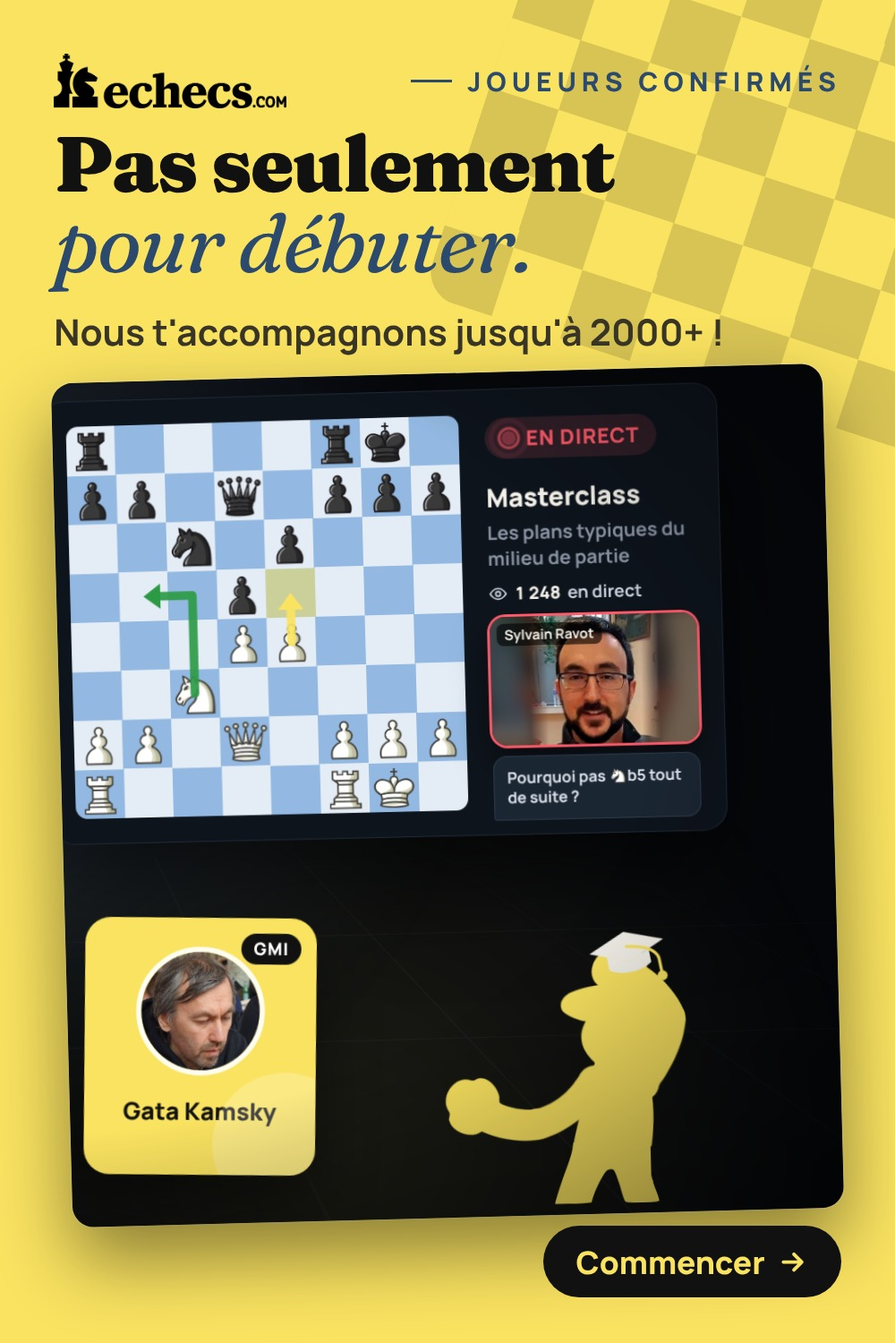
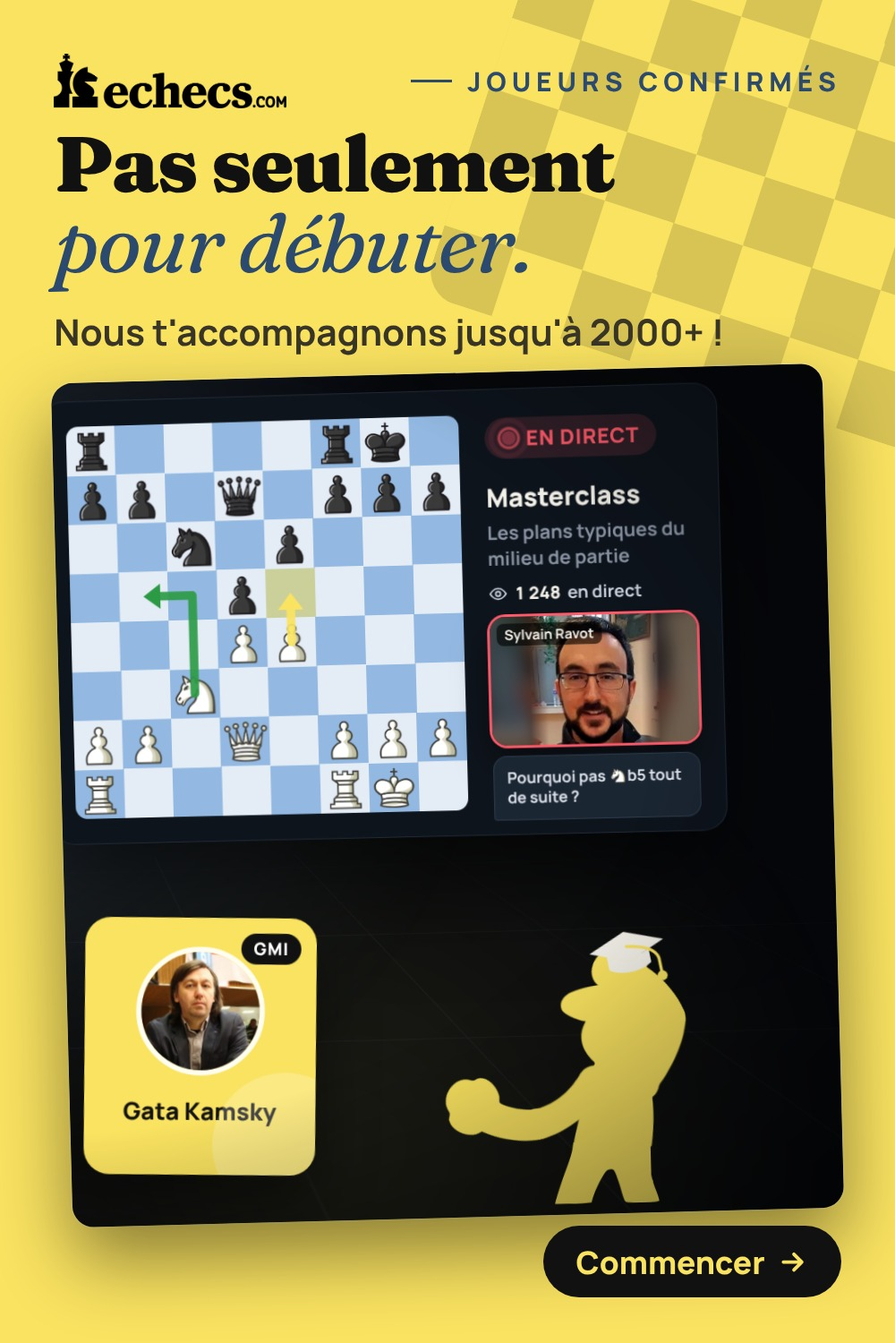
Page de campagne 2000 : vidéos 1, 2, 3 et 5 refaites (exercices Objectif 1800), post 91 avec la nouvelle photo
Claude-Session: https://claude.ai/code/session_01BbhUUMNCTREacxpKGo9DaP

Changed region(s): [[0.155, 0.7053, 0.31, 0.7973]]

diff --git a/video/validation/campagne-2000.html b/video/validation/campagne-2000.html
@@ -462,7 +462,7 @@ function fit(scope) {
 }
 
 /* ---------- Fiches ---------- */
-const MEDIA = [{"id": "p90", "v": 1, "kind": "media", "aud": "p", "nom": "2000 et plus : on t’y emmène", "angle": "Le chiffre de la campagne, avec la mascotte et son drapeau.", "legende": "2000 et plus : on t'y emmène. ♟ L'Académie, ce n'est pas que pour apprendre les règles : les parcours Objectif 1600, 1800 et 2000 et plus sont faits pour les joueurs de club. 👉 echecs.com/academie", "medias": [{"label": "Carré 1080×1080", "src": "campagne-2000/media/90-jusqu-a-2000-carre-1080x1080.jpg", "type": "image"}, {"label": "Portrait 4:5", "src": "campagne-2000/media/90-jusqu-a-2000-portrait-1080x1350.jpg", "type": "image"}, {"label": "Story 9:16", "src": "campagne-2000/media/90-jusqu-a-2000-story-1080x1920.jpg", "type": "image"}, {"label": "X 1600×900", "src": "campagne-2000/media/90-jusqu-a-2000-x-1600x900.jpg", "type": "image"}, {"label": "Lien partagé 1200×630", "src": "campagne-2000/media/90-jusqu-a-2000-lien-1200x630.jpg", "type": "image"}, {"label": "Pinterest 1000×1500", "src": "campagne-2000/media/90-jusqu-a-2000-pinterest-1000x1500.jpg", "type": "image"}]}, {"id": "p91", "v": 3, "kind": "media", "aud": "p", "nom": "Pas seulement pour débuter", "angle": "Casser l’idée d’une Académie pour débutants, avec une masterclass en image.", "legende": "Tu crois que l'Académie, c'est pour les débutants ? 🤔 Ouvertures, plans de milieu de jeu, finales techniques, masterclasses de Grands Maîtres : nous t'accompagnons jusqu'à 2000+ !", "medias": [{"label": "Carré 1080×1080", "src": "campagne-2000/media/91-pas-que-pour-debuter-carre-1080x1080.jpg", "type": "image"}, {"label": "Portrait 4:5", "src": "campagne-2000/media/91-pas-que-pour-debuter-portrait-1080x1350.jpg", "type": "image"}, {"label": "Story 9:16", "src": "campagne-2000/media/91-pas-que-pour-debuter-story-1080x1920.jpg", "type": "image"}, {"label": "X 1600×900", "src": "campagne-2000/media/91-pas-que-pour-debuter-x-1600x900.jpg", "type": "image"}, {"label": "Lien partagé 1200×630", "src": "campagne-2000/media/91-pas-que-pour-debuter-lien-1200x630.jpg", "type": "image"}, {"label": "Pinterest 1000×1500", "src": "campagne-2000/media/91-pas-que-pour-debuter-pinterest-1000x1500.jpg", "type": "image"}]}, {"id": "p92", "v": 3, "kind": "media", "aud": "p", "nom": "Tu joues en club ? Rejoins l’Académie !", "angle": "Parler directement aux joueurs de club, avec les exercices de niveau 1600.", "legende": "Tu joues en club ? Rejoins l'Académie ! 🏆 Ton club en ligne ouvert 24 h sur 24 : des exercices classés jusqu'au niveau 2000 et plus, et un tournoi en ligne chaque semaine pour mettre tout ça en pratique.", "medias": [{"label": "Carré 1080×1080", "src": "campagne-2000/media/92-joueur-de-club-carre-1080x1080.jpg", "type": "image"}, {"label": "Portrait 4:5", "src": "campagne-2000/media/92-joueur-de-club-portrait-1080x1350.jpg", "type": "image"}, {"label": "Story 9:16", "src": "campagne-2000/media/92-joueur-de-club-story-1080x1920.jpg", "type": "image"}, {"label": "X 1600×900", "src": "campagne-2000/media/92-joueur-de-club-x-1600x900.jpg", "type": "image"}, {"label": "Lien partagé 1200×630", "src": "campagne-2000/media/92-joueur-de-club-lien-1200x630.jpg", "type": "image"}, {"label": "Pinterest 1000×1500", "src": "campagne-2000/media/92-joueur-de-club-pinterest-1000x1500.jpg", "type": "image"}]}, {"id": "p93", "v": 2, "kind": "media", "aud": "p", "nom": "Fais sauter le cap des 2000", "angle": "La mascotte qui célèbre le cap.", "legende": "Fais sauter le cap des 2000. 📈 Chaque module validé te rapproche du suivant, et ta courbe Elo le montre.", "medias": [{"label": "Carré 1080×1080", "src": "campagne-2000/media/93-cap-des-2000-carre-1080x1080.jpg", "type": "image"}, {"label": "Portrait 4:5", "src": "campagne-2000/media/93-cap-des-2000-portrait-1080x1350.jpg", "type": "image"}, {"label": "Story 9:16", "src": "campagne-2000/media/93-cap-des-2000-story-1080x1920.jpg", "type": "image"}, {"label": "X 1600×900", "src": "campagne-2000/media/93-cap-des-2000-x-1600x900.jpg", "type": "image"}, {"label": "Lien partagé 1200×630", "src": "campagne-2000/media/93-cap-des-2000-lien-1200x630.jpg", "type": "image"}, {"label": "Pinterest 1000×1500", "src": "campagne-2000/media/93-cap-des-2000-pinterest-1000x1500.jpg", "type": "image"}]}, {"id": "p94", "v": 3, "kind": "media", "aud": "p", "nom": "Problème : les Blancs jouent et gagnent", "angle": "Un problème de niveau Objectif 1600 (le sacrifice grec), pour faire réagir en commentaire.", "legende": "Objectif 1600 : les Blancs jouent et gagnent. Tu vois le coup ? Donne ta réponse en commentaire 👇", "medias": [{"label": "Carré 1080×1080", "src": "campagne-2000/media/94-probleme-fou-h7-carre-1080x1080.jpg", "type": "image"}, {"label": "Portrait 4:5", "src": "campagne-2000/media/94-probleme-fou-h7-portrait-1080x1350.jpg", "type": "image"}, {"label": "Story 9:16", "src": "campagne-2000/media/94-probleme-fou-h7-story-1080x1920.jpg", "type": "image"}, {"label": "X 1600×900", "src": "campagne-2000/media/94-probleme-fou-h7-x-1600x900.jpg", "type": "image"}, {"label": "Lien partagé 1200×630", "src": "campagne-2000/media/94-probleme-fou-h7-lien-1200x630.jpg", "type": "image"}, {"label": "Pinterest 1000×1500", "src": "campagne-2000/media/94-probleme-fou-h7-pinterest-1000x1500.jpg", "type": "image"}]}, {"id": "p95", "v": 1, "kind": "media", "aud": "p", "nom": "La solution : le sacrifice grec", "angle": "À publier le lendemain, en post ou en story.", "legende": "Solution : 1.Fxh7+ ! Rxh7 2.Cg5+ et la Dame arrive en h5. C'est le sacrifice grec, un grand classique des attaques sur le Roque. On le travaille dans l'Académie, avec beaucoup d'autres.", "medias": [{"label": "Carré 1080×1080", "src": "campagne-2000/media/95-solution-fou-h7-carre-1080x1080.jpg", "type": "image"}, {"label": "Portrait 4:5", "src": "campagne-2000/media/95-solution-fou-h7-portrait-1080x1350.jpg", "type": "image"}, {"label": "Story 9:16", "src": "campagne-2000/media/95-solution-fou-h7-story-1080x1920.jpg", "type": "image"}, {"label": "X 1600×900", "src": "campagne-2000/media/95-solution-fou-h7-x-1600x900.jpg", "type": "image"}, {"label": "Lien partagé 1200×630", "src": "campagne-2000/media/95-solution-fou-h7-lien-1200x630.jpg", "type": "image"}, {"label": "Pinterest 1000×1500", "src": "campagne-2000/media/95-solution-fou-h7-pinterest-1000x1500.jpg", "type": "image"}]}, {"id": "p96", "v": 3, "kind": "media", "aud": "p", "nom": "1700 depuis des mois ?", "angle": "Le post qui pique : il parle directement au joueur de club bloqué à son classement.", "legende": "1700 depuis des mois ? 😤 Leçons Objectif 1800, masterclasses de Grands Maîtres, exercices : on débloque ça ensemble. 👉 echecs.com/academie", "medias": [{"label": "Carré 1080×1080", "src": "campagne-2000/media/96-plafond-1700-carre-1080x1080.jpg", "type": "image"}, {"label": "Portrait 4:5", "src": "campagne-2000/media/96-plafond-1700-portrait-1080x1350.jpg", "type": "image"}, {"label": "Story 9:16", "src": "campagne-2000/media/96-plafond-1700-story-1080x1920.jpg", "type": "image"}, {"label": "X 1600×900", "src": "campagne-2000/media/96-plafond-1700-x-1600x900.jpg", "type": "image"}, {"label": "Lien partagé 1200×630", "src": "campagne-2000/media/96-plafond-1700-lien-1200x630.jpg", "type": "image"}, {"label": "Pinterest 1000×1500", "src": "campagne-2000/media/96-plafond-1700-pinterest-1000x1500.jpg", "type": "image"}]}, {"id": "p97", "v": 3, "kind": "media", "aud": "p", "nom": "Des leçons pour les joueurs de club", "angle": "Les vraies leçons Objectif 1800 de l’Académie, pour montrer le niveau concret.", "legende": "Triangulation, défense de Vancura, initiative… L'Académie, ce sont aussi des leçons pour les joueurs de club, niveau 1800, avec vidéos, exercices et quiz. 👉 echecs.com/academie", "medias": [{"label": "Carré 1080×1080", "src": "campagne-2000/media/97-lecons-1800-carre-1080x1080.jpg", "type": "image"}, {"label": "Portrait 4:5", "src": "campagne-2000/media/97-lecons-1800-portrait-1080x1350.jpg", "type": "image"}, {"label": "Story 9:16", "src": "campagne-2000/media/97-lecons-1800-story-1080x1920.jpg", "type": "image"}, {"label": "X 1600×900", "src": "campagne-2000/media/97-lecons-1800-x-1600x900.jpg", "type": "image"}, {"label": "Lien partagé 1200×630", "src": "campagne-2000/media/97-lecons-1800-lien-1200x630.jpg", "type": "image"}, {"label": "Pinterest 1000×1500", "src": "campagne-2000/media/97-lecons-1800-pinterest-1000x1500.jpg", "type": "image"}]}, {"id": "vid1", "v": 6, "kind": "media", "aud": "vid", "nom": "Tu plafonnes à 1700 ?", "angle": "33 s, sans voix ; en story, 4:5 et carré, le cadre reprend l’accroche en gros (« Bloqué à 1700 ? Vise les 2000 + »), pour les joueurs de 1600-1800 : « Tu plafonnes à 1700 depuis des mois ? » sur un Elo qui ne bouge plus, « Nous avons pensé à toi ! On t’emmène jusqu’à 2000 et plus. », le sacrifice du Fou en h7, six vraies leçons Objectif 1600 et 1800 cochées une à une (triangulation, Vancura, initiative…), les Grands Maîtres, le module Objectif 1800 validé et la courbe Elo qui passe la barre des 2000.", "legende": "Tu plafonnes à 1700 depuis des mois ? Triangulation, défense de Vancura, initiative, masterclasses de Grands Maîtres : on t'emmène jusqu'à 2000 et plus. 👉 echecs.com/academie", "medias": [{"label": "16:9 (YouTube, LinkedIn, X, site)", "src": "campagne-2000/media/jusqu-a-2000-16x9.mp4", "type": "video"}, {"label": "Story 9:16", "src": "campagne-2000/media/jusqu-a-2000-story-9x16.mp4", "type": "video"}, {"label": "Portrait 4:5", "src": "campagne-2000/media/jusqu-a-2000-feed-4x5.mp4", "type": "video"}, {"label": "Carré 1:1", "src": "campagne-2000/media/jusqu-a-2000-carre-1x1.mp4", "type": "video"}]}, {"id": "vid2", "v": 1, "kind": "media", "aud": "vid", "nom": "Ton prochain palier : l’Objectif 1800", "angle": "27 s, sans voix ; cadre « Cap sur l’Objectif 1800. » en story, 4:5 et carré. « Ton prochain palier : l’Objectif 1800 ? » sur un Elo qui monte vers 1800, « Nous avons la solution ! Les leçons Objectif 1800 t’attendent. », six vraies leçons Objectif 1600 et 1800 cochées une à une, le module Objectif 1800 validé et la courbe Elo, puis les exercices et quiz.", "legende": "Ton prochain palier : l'Objectif 1800 ? Triangulation, défense de Vancura, initiative… Des leçons pour les joueurs de club, avec vidéos, exercices et quiz. 👉 echecs.com/academie", "medias": [{"label": "16:9 (YouTube, LinkedIn, X, site)", "src": "campagne-2000/media/lecons-1800-16x9.mp4", "type": "video"}, {"label": "Story 9:16", "src": "campagne-2000/media/lecons-1800-story-9x16.mp4", "type": "video"}, {"label": "Portrait 4:5", "src": "campagne-2000/media/lecons-1800-feed-4x5.mp4", "type": "video"}, {"label": "Carré 1:1", "src": "campagne-2000/media/lecons-1800-carre-1x1.mp4", "type": "video"}]}, {"id": "vid3", "v": 1, "kind": "media", "aud": "vid", "nom": "Passe le cap des 2000", "angle": "28 s, sans voix ; cadre « Passe le cap des 2000 ! » en story, 4:5 et carré. « Et si tu passais le cap des 2000 ? » sur un Elo qui approche des 2000, « Nous avons pensé à toi ! On t’emmène jusqu’à 2000 et plus. », la courbe Elo qui passe la barre des 2000, le parcours de l’Objectif 1600 à 2000 et plus (avec le sacrifice du Fou en h7), puis les exercices et quiz.", "legende": "Et si tu passais le cap des 2000 ? Leçons Objectif 1800, exercices à ton niveau et ta courbe Elo pour mesurer tes progrès : on t'emmène jusqu'à 2000 et plus. 👉 echecs.com/academie", "medias": [{"label": "16:9 (YouTube, LinkedIn, X, site)", "src": "campagne-2000/media/cap-des-2000-16x9.mp4", "type": "video"}, {"label": "Story 9:16", "src": "campagne-2000/media/cap-des-2000-story-9x16.mp4", "type": "video"}, {"label": "Portrait 4:5", "src": "campagne-2000/media/cap-des-2000-feed-4x5.mp4", "type": "video"}, {"label": "Carré 1:1", "src": "campagne-2000/media/cap-des-2000-carre-1x1.mp4", "type": "video"}]}, {"id": "vid4", "v": 1, "kind": "media", "aud": "vid", "nom": "Des Grands Maîtres à tes côtés", "angle": "23 s, sans voix ; cadre « Avec des Grands Maîtres. » en story, 4:5 et carré. « Et si des Grands Maîtres t’aidaient à progresser ? » avec Gata Kamsky et Fabien Libiszewski en direct, « Nous avons la solution ! Des Maîtres et Grands Maîtres à tes côtés. », une masterclass en direct et nos coachs, puis le catalogue vidéo Europe Échecs et ses auteurs.", "legende": "Et si des Grands Maîtres t'aidaient à progresser ? Gata Kamsky, Fabien Libiszewski et nos coachs en masterclass, en direct et en replay, et tout le catalogue vidéo Europe Échecs inclus. 👉 echecs.com/academie", "medias": [{"label": "16:9 (YouTube, LinkedIn, X, site)", "src": "campagne-2000/media/grands-maitres-16x9.mp4", "type": "video"}, {"label": "Story 9:16", "src": "campagne-2000/media/grands-maitres-story-9x16.mp4", "type": "video"}, {"label": "Portrait 4:5", "src": "campagne-2000/media/grands-maitres-feed-4x5.mp4", "type": "video"}, {"label": "Carré 1:1", "src": "campagne-2000/media/grands-maitres-carre-1x1.mp4", "type": "video"}]}, {"id": "vid5", "v": 1, "kind": "media", "aud": "vid", "nom": "Ton dernier tournoi, décortiqué", "angle": "23 s, sans voix ; cadre « Ton tournoi, décortiqué. » en story, 4:5 et carré. « Tu perds en tournoi sans savoir pourquoi ? » sur une série de défaites, « Nous avons pensé à toi ! Ton dernier tournoi, décortiqué coup par coup. », la saisie d’une partie, l’import du PGN, l’analyse et le partage avec les membres, puis les exercices et quiz.", "legende": "Tu perds en tournoi sans savoir pourquoi ? Importe tes parties en PGN, analyse-les coup par coup et partage-les avec les membres. Puis entraîne-toi avec +2 000 exercices. 👉 echecs.com/academie", "medias": [{"label": "16:9 (YouTube, LinkedIn, X, site)", "src": "campagne-2000/media/tournoi-decortique-16x9.mp4", "type": "video"}, {"label": "Story 9:16", "src": "campagne-2000/media/tournoi-decortique-story-9x16.mp4", "type": "video"}, {"label": "Portrait 4:5", "src": "campagne-2000/media/tournoi-decortique-feed-4x5.mp4", "type": "video"}, {"label": "Carré 1:1", "src": "campagne-2000/media/tournoi-decortique-carre-1x1.mp4", "type": "video"}]}];
+const MEDIA = [{"id": "p90", "v": 1, "kind": "media", "aud": "p", "nom": "2000 et plus : on t’y emmène", "angle": "Le chiffre de la campagne, avec la mascotte et son drapeau.", "legende": "2000 et plus : on t'y emmène. ♟ L'Académie, ce n'est pas que pour apprendre les règles : les parcours Objectif 1600, 1800 et 2000 et plus sont faits pour les joueurs de club. 👉 echecs.com/academie", "medias": [{"label": "Carré 1080×1080", "src": "campagne-2000/media/90-jusqu-a-2000-carre-1080x1080.jpg", "type": "image"}, {"label": "Portrait 4:5", "src": "campagne-2000/media/90-jusqu-a-2000-portrait-1080x1350.jpg", "type": "image"}, {"label": "Story 9:16", "src": "campagne-2000/media/90-jusqu-a-2000-story-1080x1920.jpg", "type": "image"}, {"label": "X 1600×900", "src": "campagne-2000/media/90-jusqu-a-2000-x-1600x900.jpg", "type": "image"}, {"label": "Lien partagé 1200×630", "src": "campagne-2000/media/90-jusqu-a-2000-lien-1200x630.jpg", "type": "image"}, {"label": "Pinterest 1000×1500", "src": "campagne-2000/media/90-jusqu-a-2000-pinterest-1000x1500.jpg", "type": "image"}]}, {"id": "p91", "v": 3, "kind": "media", "aud": "p", "nom": "Pas seulement pour débuter", "angle": "Casser l’idée d’une Académie pour débutants, avec une masterclass en image.", "legende": "Tu crois que l'Académie, c'est pour les débutants ? 🤔 Ouvertures, plans de milieu de jeu, finales techniques, masterclasses de Grands Maîtres : nous t'accompagnons jusqu'à 2000+ !", "medias": [{"label": "Carré 1080×1080", "src": "campagne-2000/media/91-pas-que-pour-debuter-carre-1080x1080.jpg", "type": "image"}, {"label": "Portrait 4:5", "src": "campagne-2000/media/91-pas-que-pour-debuter-portrait-1080x1350.jpg", "type": "image"}, {"label": "Story 9:16", "src": "campagne-2000/media/91-pas-que-pour-debuter-story-1080x1920.jpg", "type": "image"}, {"label": "X 1600×900", "src": "campagne-2000/media/91-pas-que-pour-debuter-x-1600x900.jpg", "type": "image"}, {"label": "Lien partagé 1200×630", "src": "campagne-2000/media/91-pas-que-pour-debuter-lien-1200x630.jpg", "type": "image"}, {"label": "Pinterest 1000×1500", "src": "campagne-2000/media/91-pas-que-pour-debuter-pinterest-1000x1500.jpg", "type": "image"}]}, {"id": "p92", "v": 3, "kind": "media", "aud": "p", "nom": "Tu joues en club ? Rejoins l’Académie !", "angle": "Parler directement aux joueurs de club, avec les exercices de niveau 1600.", "legende": "Tu joues en club ? Rejoins l'Académie ! 🏆 Ton club en ligne ouvert 24 h sur 24 : des exercices classés jusqu'au niveau 2000 et plus, et un tournoi en ligne chaque semaine pour mettre tout ça en pratique.", "medias": [{"label": "Carré 1080×1080", "src": "campagne-2000/media/92-joueur-de-club-carre-1080x1080.jpg", "type": "image"}, {"label": "Portrait 4:5", "src": "campagne-2000/media/92-joueur-de-club-portrait-1080x1350.jpg", "type": "image"}, {"label": "Story 9:16", "src": "campagne-2000/media/92-joueur-de-club-story-1080x1920.jpg", "type": "image"}, {"label": "X 1600×900", "src": "campagne-2000/media/92-joueur-de-club-x-1600x900.jpg", "type": "image"}, {"label": "Lien partagé 1200×630", "src": "campagne-2000/media/92-joueur-de-club-lien-1200x630.jpg", "type": "image"}, {"label": "Pinterest 1000×1500", "src": "campagne-2000/media/92-joueur-de-club-pinterest-1000x1500.jpg", "type": "image"}]}, {"id": "p93", "v": 2, "kind": "media", "aud": "p", "nom": "Fais sauter le cap des 2000", "angle": "La mascotte qui célèbre le cap.", "legende": "Fais sauter le cap des 2000. 📈 Chaque module validé te rapproche du suivant, et ta courbe Elo le montre.", "medias": [{"label": "Carré 1080×1080", "src": "campagne-2000/media/93-cap-des-2000-carre-1080x1080.jpg", "type": "image"}, {"label": "Portrait 4:5", "src": "campagne-2000/media/93-cap-des-2000-portrait-1080x1350.jpg", "type": "image"}, {"label": "Story 9:16", "src": "campagne-2000/media/93-cap-des-2000-story-1080x1920.jpg", "type": "image"}, {"label": "X 1600×900", "src": "campagne-2000/media/93-cap-des-2000-x-1600x900.jpg", "type": "image"}, {"label": "Lien partagé 1200×630", "src": "campagne-2000/media/93-cap-des-2000-lien-1200x630.jpg", "type": "image"}, {"label": "Pinterest 1000×1500", "src": "campagne-2000/media/93-cap-des-2000-pinterest-1000x1500.jpg", "type": "image"}]}, {"id": "p94", "v": 3, "kind": "media", "aud": "p", "nom": "Problème : les Blancs jouent et gagnent", "angle": "Un problème de niveau Objectif 1600 (le sacrifice grec), pour faire réagir en commentaire.", "legende": "Objectif 1600 : les Blancs jouent et gagnent. Tu vois le coup ? Donne ta réponse en commentaire 👇", "medias": [{"label": "Carré 1080×1080", "src": "campagne-2000/media/94-probleme-fou-h7-carre-1080x1080.jpg", "type": "image"}, {"label": "Portrait 4:5", "src": "campagne-2000/media/94-probleme-fou-h7-portrait-1080x1350.jpg", "type": "image"}, {"label": "Story 9:16", "src": "campagne-2000/media/94-probleme-fou-h7-story-1080x1920.jpg", "type": "image"}, {"label": "X 1600×900", "src": "campagne-2000/media/94-probleme-fou-h7-x-1600x900.jpg", "type": "image"}, {"label": "Lien partagé 1200×630", "src": "campagne-2000/media/94-probleme-fou-h7-lien-1200x630.jpg", "type": "image"}, {"label": "Pinterest 1000×1500", "src": "campagne-2000/media/94-probleme-fou-h7-pinterest-1000x1500.jpg", "type": "image"}]}, {"id": "p95", "v": 1, "kind": "media", "aud": "p", "nom": "La solution : le sacrifice grec", "angle": "À publier le lendemain, en post ou en story.", "legende": "Solution : 1.Fxh7+ ! Rxh7 2.Cg5+ et la Dame arrive en h5. C'est le sacrifice grec, un grand classique des attaques sur le Roque. On le travaille dans l'Académie, avec beaucoup d'autres.", "medias": [{"label": "Carré 1080×1080", "src": "campagne-2000/media/95-solution-fou-h7-carre-1080x1080.jpg", "type": "image"}, {"label": "Portrait 4:5", "src": "campagne-2000/media/95-solution-fou-h7-portrait-1080x1350.jpg", "type": "image"}, {"label": "Story 9:16", "src": "campagne-2000/media/95-solution-fou-h7-story-1080x1920.jpg", "type": "image"}, {"label": "X 1600×900", "src": "campagne-2000/media/95-solution-fou-h7-x-1600x900.jpg", "type": "image"}, {"label": "Lien partagé 1200×630", "src": "campagne-2000/media/95-solution-fou-h7-lien-1200x630.jpg", "type": "image"}, {"label": "Pinterest 1000×1500", "src": "campagne-2000/media/95-solution-fou-h7-pinterest-1000x1500.jpg", "type": "image"}]}, {"id": "p96", "v": 3, "kind": "media", "aud": "p", "nom": "1700 depuis des mois ?", "angle": "Le post qui pique : il parle directement au joueur de club bloqué à son classement.", "legende": "1700 depuis des mois ? 😤 Leçons Objectif 1800, masterclasses de Grands Maîtres, exercices : on débloque ça ensemble. 👉 echecs.com/academie", "medias": [{"label": "Carré 1080×1080", "src": "campagne-2000/media/96-plafond-1700-carre-1080x1080.jpg", "type": "image"}, {"label": "Portrait 4:5", "src": "campagne-2000/media/96-plafond-1700-portrait-1080x1350.jpg", "type": "image"}, {"label": "Story 9:16", "src": "campagne-2000/media/96-plafond-1700-story-1080x1920.jpg", "type": "image"}, {"label": "X 1600×900", "src": "campagne-2000/media/96-plafond-1700-x-1600x900.jpg", "type": "image"}, {"label": "Lien partagé 1200×630", "src": "campagne-2000/media/96-plafond-1700-lien-1200x630.jpg", "type": "image"}, {"label": "Pinterest 1000×1500", "src": "campagne-2000/media/96-plafond-1700-pinterest-1000x1500.jpg", "type": "image"}]}, {"id": "p97", "v": 3, "kind": "media", "aud": "p", "nom": "Des leçons pour les joueurs de club", "angle": "Les vraies leçons Objectif 1800 de l’Académie, pour montrer le niveau concret.", "legende": "Triangulation, défense de Vancura, initiative… L'Académie, ce sont aussi des leçons pour les joueurs de club, niveau 1800, avec vidéos, exercices et quiz. 👉 echecs.com/academie", "medias": [{"label": "Carré 1080×1080", "src": "campagne-2000/media/97-lecons-1800-carre-1080x1080.jpg", "type": "image"}, {"label": "Portrait 4:5", "src": "campagne-2000/media/97-lecons-1800-portrait-1080x1350.jpg", "type": "image"}, {"label": "Story 9:16", "src": "campagne-2000/media/97-lecons-1800-story-1080x1920.jpg", "type": "image"}, {"label": "X 1600×900", "src": "campagne-2000/media/97-lecons-1800-x-1600x900.jpg", "type": "image"}, {"label": "Lien partagé 1200×630", "src": "campagne-2000/media/97-lecons-1800-lien-1200x630.jpg", "type": "image"}, {"label": "Pinterest 1000×1500", "src": "campagne-2000/media/97-lecons-1800-pinterest-1000x1500.jpg", "type": "image"}]}, {"id": "vid1", "v": 7, "kind": "media", "aud": "vid", "nom": "Tu plafonnes à 1700 ?", "angle": "33 s, sans voix ; en story, 4:5 et carré, le cadre reprend l’accroche en gros (« Bloqué à 1700 ? Vise les 2000 + »), pour les joueurs de 1600-1800 : « Tu plafonnes à 1700 depuis des mois ? » sur un Elo qui ne bouge plus, « Nous avons pensé à toi ! On t’emmène jusqu’à 2000 et plus. », la triangulation (leçon Objectif 1800), six vraies leçons Objectif 1600 et 1800 cochées une à une (triangulation, Vancura, initiative…), les Grands Maîtres, le module Objectif 1800 validé et la courbe Elo qui passe la barre des 2000.", "legende": "Tu plafonnes à 1700 depuis des mois ? Triangulation, défense de Vancura, initiative, masterclasses de Grands Maîtres : on t'emmène jusqu'à 2000 et plus. 👉 echecs.com/academie", "medias": [{"label": "16:9 (YouTube, LinkedIn, X, site)", "src": "campagne-2000/media/jusqu-a-2000-16x9.mp4", "type": "video"}, {"label": "Story 9:16", "src": "campagne-2000/media/jusqu-a-2000-story-9x16.mp4", "type": "video"}, {"label": "Portrait 4:5", "src": "campagne-2000/media/jusqu-a-2000-feed-4x5.mp4", "type": "video"}, {"label": "Carré 1:1", "src": "campagne-2000/media/jusqu-a-2000-carre-1x1.mp4", "type": "video"}]}, {"id": "vid2", "v": 2, "kind": "media", "aud": "vid", "nom": "Ton prochain palier : l’Objectif 1800", "angle": "27 s, sans voix ; cadre « Cap sur l’Objectif 1800. » en story, 4:5 et carré. « Ton prochain palier : l’Objectif 1800 ? » sur un Elo qui monte vers 1800, « Nous avons la solution ! Les leçons Objectif 1800 t’attendent. », six vraies leçons Objectif 1600 et 1800 cochées une à une, le module Objectif 1800 validé et la courbe Elo, puis les exercices et quiz Objectif 1800 (« Les Blancs jouent et annulent » : 1.Tb8+ !, et la défense de Vancura).", "legende": "Ton prochain palier : l'Objectif 1800 ? Triangulation, défense de Vancura, initiative… Des leçons pour les joueurs de club, avec vidéos, exercices et quiz. 👉 echecs.com/academie", "medias": [{"label": "16:9 (YouTube, LinkedIn, X, site)", "src": "campagne-2000/media/lecons-1800-16x9.mp4", "type": "video"}, {"label": "Story 9:16", "src": "campagne-2000/media/lecons-1800-story-9x16.mp4", "type": "video"}, {"label": "Portrait 4:5", "src": "campagne-2000/media/lecons-1800-feed-4x5.mp4", "type": "video"}, {"label": "Carré 1:1", "src": "campagne-2000/media/lecons-1800-carre-1x1.mp4", "type": "video"}]}, {"id": "vid3", "v": 2, "kind": "media", "aud": "vid", "nom": "Passe le cap des 2000", "angle": "28 s, sans voix ; cadre « Passe le cap des 2000 ! » en story, 4:5 et carré. « Et si tu passais le cap des 2000 ? » sur un Elo qui approche des 2000, « Nous avons pensé à toi ! On t’emmène jusqu’à 2000 et plus. », la courbe Elo qui passe la barre des 2000, le parcours de l’Objectif 1800 à 2000 et plus (avec la triangulation, leçon Objectif 1800), puis les exercices et quiz Objectif 1800 (« Les Blancs jouent et annulent » : 1.Tb8+ !, et la défense de Vancura).", "legende": "Et si tu passais le cap des 2000 ? Leçons Objectif 1800, exercices à ton niveau et ta courbe Elo pour mesurer tes progrès : on t'emmène jusqu'à 2000 et plus. 👉 echecs.com/academie", "medias": [{"label": "16:9 (YouTube, LinkedIn, X, site)", "src": "campagne-2000/media/cap-des-2000-16x9.mp4", "type": "video"}, {"label": "Story 9:16", "src": "campagne-2000/media/cap-des-2000-story-9x16.mp4", "type": "video"}, {"label": "Portrait 4:5", "src": "campagne-2000/media/cap-des-2000-feed-4x5.mp4", "type": "video"}, {"label": "Carré 1:1", "src": "campagne-2000/media/cap-des-2000-carre-1x1.mp4", "type": "video"}]}, {"id": "vid4", "v": 1, "kind": "media", "aud": "vid", "nom": "Des Grands Maîtres à tes côtés", "angle": "23 s, sans voix ; cadre « Avec des Grands Maîtres. » en story, 4:5 et carré. « Et si des Grands Maîtres t’aidaient à progresser ? » avec Gata Kamsky et Fabien Libiszewski en direct, « Nous avons la solution ! Des Maîtres et Grands Maîtres à tes côtés. », une masterclass en direct et nos coachs, puis le catalogue vidéo Europe Échecs et ses auteurs.", "legende": "Et si des Grands Maîtres t'aidaient à progresser ? Gata Kamsky, Fabien Libiszewski et nos coachs en masterclass, en direct et en replay, et tout le catalogue vidéo Europe Échecs inclus. 👉 echecs.com/academie", "medias": [{"label": "16:9 (YouTube, LinkedIn, X, site)", "src": "campagne-2000/media/grands-maitres-16x9.mp4", "type": "video"}, {"label": "Story 9:16", "src": "campagne-2000/media/grands-maitres-story-9x16.mp4", "type": "video"}, {"label": "Portrait 4:5", "src": "campagne-2000/media/grands-maitres-feed-4x5.mp4", "type": "video"}, {"label": "Carré 1:1", "src": "campagne-2000/media/grands-maitres-carre-1x1.mp4", "type": "video"}]}, {"id": "vid5", "v": 2, "kind": "media", "aud": "vid", "nom": "Ton dernier tournoi, décortiqué", "angle": "23 s, sans voix ; cadre « Ton tournoi, décortiqué. » en story, 4:5 et carré. « Tu perds en tournoi sans savoir pourquoi ? » sur une série de défaites, « Nous avons pensé à toi ! Ton dernier tournoi, décortiqué coup par coup. », la saisie d’une partie, l’import du PGN, l’analyse et le partage avec les membres, puis les exercices et quiz Objectif 1800 (« Les Blancs jouent et annulent » : 1.Tb8+ !, et la défense de Vancura).", "legende": "Tu perds en tournoi sans savoir pourquoi ? Importe tes parties en PGN, analyse-les coup par coup et partage-les avec les membres. Puis entraîne-toi avec +2 000 exercices. 👉 echecs.com/academie", "medias": [{"label": "16:9 (YouTube, LinkedIn, X, site)", "src": "campagne-2000/media/tournoi-decortique-16x9.mp4", "type": "video"}, {"label": "Story 9:16", "src": "campagne-2000/media/tournoi-decortique-story-9x16.mp4", "type": "video"}, {"label": "Portrait 4:5", "src": "campagne-2000/media/tournoi-decortique-feed-4x5.mp4", "type": "video"}, {"label": "Carré 1:1", "src": "campagne-2000/media/tournoi-decortique-carre-1x1.mp4", "type": "video"}]}];
 const SECTIONS = [
   { id: "confirmes", titre: "1. Encarts pour le site", intro: "La campagne « Jusqu’à 2000 et plus » : faire comprendre que l’Académie n’est pas que pour apprendre les bases, mais aussi pour les amateurs confirmés et les joueurs de club. À afficher partout, en alternance avec les autres.", items: C.filter(c => c.aud === "c") },
   { id: "posts", titre: "2. Posts réseaux sociaux", intro: "Chaque visuel dans tous les formats des réseaux : carré, portrait 4:5, story 9:16, X, lien partagé et Pinterest. Les textes à publier sont sous chaque fiche.", items: MEDIA.filter(m => m.aud === "p") },
